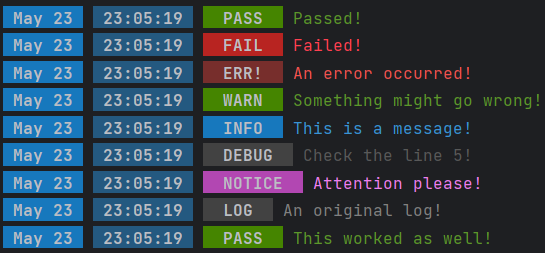
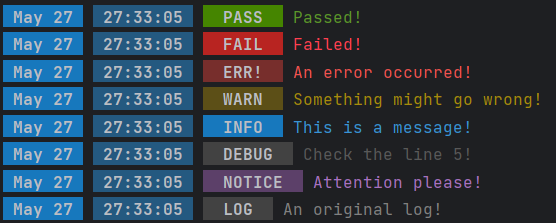
updates

diff --git a/index.js b/index.js
@@ -14,6 +14,7 @@ if (!supportsHexColor) stdout.write("WARNING: The current terminal doesn't suppo
 const fnCheck = (s, ...args) => typeof s === "function" ? s(...args) : s;
 
 class Printer {
+    _periodicOptions = null;
     static DEFAULT_OPTIONS = {
         format: "$date $time $tag $text",
 
@@ -70,10 +71,10 @@ class Printer {
         pass: {text: "PASS", backgroundColor: "greenBright", textColor: "green"},
         fail: {text: "FAIL", backgroundColor: "redBright", textColor: "redBright"},
         error: {text: "ERR!", backgroundColor: "red", textColor: "red"},
-        warn: {text: "WARN", backgroundColor: "greenBright", textColor: "green"},
+        warn: {text: "WARN", backgroundColor: "yellow", textColor: "yellow"},
         info: {text: "INFO", backgroundColor: "blueBright", textColor: "blue"},
         debug: {text: "DEBUG", backgroundColor: "gray", textColor: "gray"},
-        notice: {text: "NOTICE", backgroundColor: "magentaBright", textColor: "magentaBright"},
+        notice: {text: "NOTICE", backgroundColor: "cyanBright", textColor: "cyan"},
         log: {text: "LOG", backgroundColor: "gray", textColor: "white"}
     };
     streams = new Map;
@@ -207,7 +208,7 @@ class Printer {
     };
 
     addFile(file) {
-        this.streams.set(file, fs.createWriteStream(file));
+        this.streams.set(file, fs.createWriteStream(file, {flags: "a"}));
         return this;
     };
 
@@ -219,10 +220,58 @@ class Printer {
     makeLoggerFile(options) {
         if (typeof options !== "object" || Array.isArray(options)) options = {};
         Printer.setDefault(options, {
-            folder: "./logs", radix: 16, divide: 3, format: "log-$t.log"
+            folder: "./logs", format: "log-" + this.chr + "DD-" + this.chr + "MM-" + this.chr + "YYYY.log"
+        });
+        this._periodicOptions = options;
+        if (this.streams.get("__periodic__")) return;
+        let sl;
+        this.streams.set("__periodic__", sl = {
+            write: content => {
+                const options = this._periodicOptions;
+                if (!fs.existsSync(options.folder)) fs.mkdirSync(options.folder);
+                const d = new Date;
+                const day = d.getDate();
+                const month = d.getMonth() + 1;
+                const year = d.getFullYear();
+                const hours = d.getHours();
+                const minutes = d.getMinutes();
+                const seconds = d.getSeconds();
+                const ms = d.getMilliseconds();
+                const list = [
+                    ["D", day],
+                    ["M", month],
+                    ["Y", year],
+                    ["h", hours],
+                    ["m", minutes],
+                    ["s", seconds],
+                    ["S", ms]
+                ];
+                const formatted = list.reduce((a, b) => a.replaceAll(new RegExp("\\" + this.chr + b[0] + "+", "g"), str => {
+                    const len = str.length - 1;
+                    str = b[1].toString().padStart(len, "0");
+                    if (str.length > len) str = str.substring(str.length - len);
+                    return str;
+                }), options.format);
+                const file = path.join(options.folder, formatted);
+                if (!sl._streams.has(file)) {
+                    if (sl._lastStream) sl._lastStream.close();
+                    sl._streams.set(file, sl._lastStream = fs.createWriteStream(file, {flags: "a"}));
+                }
+                sl._streams.get(file).write(content);
+            },
+            _lastStream: null,
+            _streams: new Map
+        });
+        return this;
+    };
+
+    makeHashedLoggerFile(options) {
+        if (typeof options !== "object" || Array.isArray(options)) options = {};
+        Printer.setDefault(options, {
+            folder: "./logs", radix: 16, divide: 3, format: "log-" + this.chr + "t.log"
         });
         if (!fs.existsSync(options.folder)) fs.mkdirSync(options.folder);
-        const file = path.join(options.folder, options.format.replaceAll("$t", Math.floor(Date.now() / (10 ** options.divide)).toString(options.radix)));
+        const file = path.join(options.folder, options.format.replaceAll(this.chr + "t", Math.floor(Date.now() / (10 ** options.divide)).toString(options.radix)));
         this.addFile(file);
         return this;
     };

diff --git a/index.d.ts b/index.d.ts
@@ -2,30 +2,9 @@
 
 import * as tty from "node:tty";
 
-type Color =
-    "black"
-    | "red"
-    | "green"
-    | "yellow"
-    | "blue"
-    | "magenta"
-    | "cyan"
-    | "white"
-    | "blackBright"
-    | "gray"
-    | "grey"
-    | "redBright"
-    | "greenBright"
-    | "yellowBright"
-    | "blueBright"
-    | "magentaBright"
-    | "cyanBright"
-    | "whiteBright"
-    | "transparent"
-    | "default"
-    | "none"
-    | ""
-    | `#${string}`;
+type Color = "black" | "red" | "green" | "yellow" | "blue" | "magenta" | "cyan" | "white" | "blackBright" | "gray"
+    | "grey" | "redBright" | "greenBright" | "yellowBright" | "blueBright" | "magentaBright" | "cyanBright"
+    | "whiteBright" | "transparent" | "default" | "none" | "" | `#${string}`;
 type BackgroundColor = Color;
 
 type LogOptions = {
@@ -91,8 +70,11 @@ type PaintOptions = {
     strikethrough?: boolean,
     padding?: number
 };
-type FileOptions = {
+type LoggerOptions = {
     folder?: string, radix?: number, divide?: number, format?: string
+};
+type PeriodicLoggerOptions = {
+    folder?: string, format?: string
 };
 type TagComponent = {
     text: string | (() => string),
@@ -111,10 +93,10 @@ declare class FancyPrinter {
         pass: { text: "PASS", backgroundColor: "greenBright", textColor: "green" },
         fail: { text: "FAIL", backgroundColor: "redBright", textColor: "redBright" },
         error: { text: "ERR!", backgroundColor: "red", textColor: "red" },
-        warn: { text: "WARN", backgroundColor: "greenBright", textColor: "green" },
+        warn: { text: "WARN", backgroundColor: "yellow", textColor: "yellow" },
         info: { text: "INFO", backgroundColor: "blueBright", textColor: "blue" },
         debug: { text: "DEBUG", backgroundColor: "gray", textColor: "gray" },
-        notice: { text: "NOTICE", backgroundColor: "purpleBright", textColor: "purple" },
+        notice: { text: "NOTICE", backgroundColor: "cyanBright", textColor: "cyan" },
         log: { text: "LOG", backgroundColor: "gray", textColor: "white" }
     };
     options: LogOptions;
@@ -151,7 +133,9 @@ declare class FancyPrinter {
 
     removeFile(file: string): FancyPrinter;
 
-    makeLoggerFile(options?: FileOptions): FancyPrinter;
+    makeLoggerFile(options?: PeriodicLoggerOptions): FancyPrinter;
+
+    makeHashedLoggerFile(options?: LoggerOptions): FancyPrinter;
 
     addComponent(name: string, callback: ComponentFunction): FancyPrinter;
 

diff --git a/test.js b/test.js
@@ -1,5 +1,10 @@
-require("./index").makeGlobal(true);
+require("./index").makeGlobal(true).makeLoggerFile();
 
-console.pass("Hello, world!");
-
-console.log("test");
+printer.pass("Passed!");
+printer.fail("Failed!");
+printer.error("An error occurred!");
+printer.warn("Something might go wrong!");
+printer.info("This is a message!");
+printer.debug("Check the line 5!");
+printer.notice("Attention please!");
+printer.log("An original log!");

diff --git a/README.md b/README.md
@@ -1,10 +1,10 @@
-# fancy-printer
+# 🌟 Fancy Printer 🌟
 
 A fancy logger with a lot of customization!
 
-# Usage
+# 🔧 Usage 🔧
 
-## Creating a printer
+## ✨ Creating a printer ✨
 
 ```js
 const printer = require("fancy-printer");
@@ -16,7 +16,7 @@ newPrinter.log("Hello, world!");
 printer.log("Hello, world!");
 ```
 
-## Default tags
+## ✨ Default tags ✨
 
 ```js
 printer.pass("Passed!");
@@ -33,7 +33,7 @@ printer.tag("pass", "This worked as well!");
 
 ![](https://raw.githubusercontent.com/larvance/fancy-printer/main/screenshots/img.png)
 
-## Creating tags
+## ✨ Creating tags ✨
 
 ```js
 printer.addTag("test", "HEY!", "", "#bb7373", "#ffff00");
@@ -42,7 +42,7 @@ printer.tag("test", "Hello, world!");
 
 ![](https://raw.githubusercontent.com/larvance/fancy-printer/main/screenshots/img_1.png)
 
-## Formatting & Using/adding components & Changing the chr
+## ✨ Formatting & Using/adding components & Changing the chr ✨
 
 ```js
 printer.setFormat("$date $time $tag $text"); // default
@@ -62,7 +62,7 @@ printer.info("Hello, world!");
 
 ![](https://raw.githubusercontent.com/larvance/fancy-printer/main/screenshots/img_2.png)
 
-## Making the printer global
+## ✨ Making the printer global ✨
 
 ```js
 Printer.makeGlobal();
@@ -79,15 +79,7 @@ Printer.makeGlobal(true);
 console.info("test");
 ```
 
-## Logging Options
-
-Tip: You can add custom options to nearly every function!
-
-```js
-printer.info("Text!", additionalOptions);
-```
-
-## Logging to a file
+## ✨ Logging to a file *periodically* ✨
 
 ```js
 printer.addFile("./myFile.txt");
@@ -98,16 +90,56 @@ printer.makeLoggerFile();
 // OPTIONAL:
 printer.makeLoggerFile({
     folder: "./myFolder/", // Default: logs. This is where the log files will be saved in.
-    radix: 16, // max and default 16. This is the time encoder setting
-    divide: 3, // Default: 3. Divides the current timestamp into 10^divide. For example 3 would divide it to 1000 which makes it depend on seconds.
-    format: "my file $t.log" // Default: log-$t.log. The format of the name of the file. $t will be replaced by the time
+    format: "my log $DD-$MM-$YYYY.txt" // Default: log-DD-MM-YYYY.log. The format of the name of the file.
 });
 ```
 
-## Clearing
+## ✨ Logging to a file with a *hash* ✨
+
+```js
+printer.addFile("./myFile.txt");
+
+// OR you can use this:
+printer.makeHashedLoggerFile();
+// which makes a "logs" folder and puts a unique file in it to log into
+// OPTIONAL:
+printer.makeHashedLoggerFile({
+    folder: "./myFolder/", // Default: logs. This is where the log files will be saved in.
+    radix: 16, // max and default 16. This is the time encoder setting
+    divide: 3, // Default: 3. Divides the current timestamp into 10^divide. For example 3 would divide it to 1000 which makes it depend on seconds.
+    format: "my log $t.txt" // Default: log-$t.log. The format of the name of the file. $t will be replaced by the time
+});
+```
+
+### ✨ Formatting arguments ✨
+- **Y:** Year
+- **M:** Month
+- **D**: Day
+- **h**: Hour
+- **m**: Minute
+- **s**: Second
+- **S**: Millisecond
+
+### ✨ Padding on formatting arguments ✨
+
+The length of the argument determines how long it should be.
+
+For example if it's `DD` and if the day is 4, it becomes 04.
+
+If it's `YY` and if the year is 2023, it becomes 23. (so it cuts from the end)
+
+## ✨ Clearing the terminal ✨
 
 ```js
 printer.clear();
+```
+
+## ✨ Logging Options ✨
+
+Tip: You can add custom options to nearly every function!
+
+```js
+printer.info("Text!", additionalOptions);
 ```
 
 | Key                       | Default                | Expected                                                                                           | Description                                                                                                                         |
